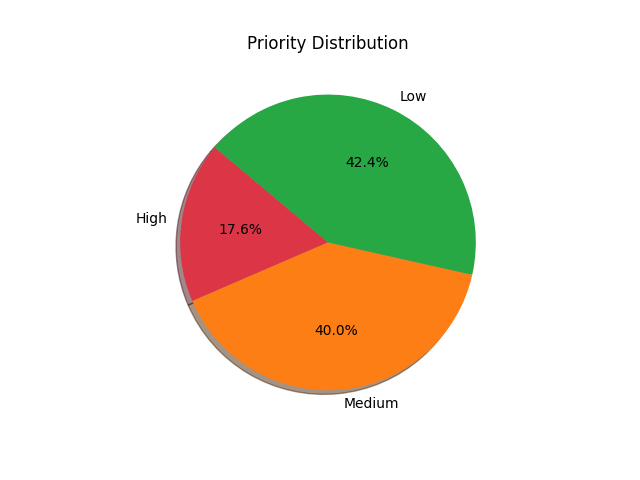
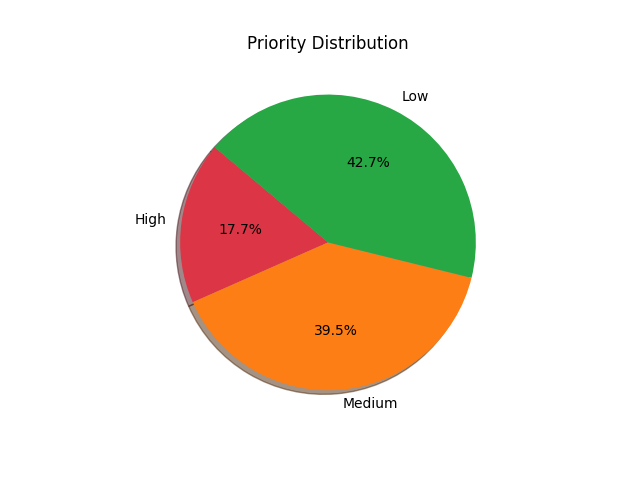
Fixed deep recon

diff --git a/detection.py b/detection.py
@@ -5,6 +5,9 @@ from urllib.parse import urlparse, parse_qs, urlencode, urlunparse
 
 # Shared session with realistic User-Agent
 SESSION = requests.Session()
+adapter = requests.adapters.HTTPAdapter(pool_connections=25, pool_maxsize=25)
+SESSION.mount('http://', adapter)
+SESSION.mount('https://', adapter)
 SESSION.headers.update({
     "User-Agent": "Mozilla/5.0 (Windows NT 10.0; Win64; x64) AppleWebKit/537.36 (KHTML, like Gecko) Chrome/120.0.0.0 Safari/537.36"
 })
@@ -51,7 +54,7 @@ def detect_advanced_sqli(url, forms=None, deep=False):
             tp = params.copy()
             
             # Error-Based
-            tp[param] = "'"
+            tp[param] = ["'"]
             try:
                 r = SESSION.get(urllib3.util.parse_url(urlunparse(parsed._replace(query=urlencode(tp, doseq=True)))).url, timeout=5)
                 if any(err in r.text.lower() for err in sql_errors):
@@ -62,8 +65,8 @@ def detect_advanced_sqli(url, forms=None, deep=False):
                 
             # Boolean-Based
             fp = params.copy()
-            tp[param] = "' AND 1=1--"
-            fp[param] = "' AND 1=2--"
+            tp[param] = ["' AND 1=1--"]
+            fp[param] = ["' AND 1=2--"]
             try:
                 r_true = SESSION.get(urlunparse(parsed._replace(query=urlencode(tp, doseq=True))), timeout=5)
                 r_false = SESSION.get(urlunparse(parsed._replace(query=urlencode(fp, doseq=True))), timeout=5)
@@ -75,7 +78,7 @@ def detect_advanced_sqli(url, forms=None, deep=False):
                 
             # Time-Based
             if deep:
-                tp[param] = "' AND SLEEP(3)--"
+                tp[param] = ["' AND SLEEP(3)--"]
                 try:
                     start = time.time()
                     SESSION.get(urlunparse(parsed._replace(query=urlencode(tp, doseq=True))), timeout=8)
@@ -173,7 +176,7 @@ def detect_advanced_xss(url, forms=None):
             for p_type, base_payload in payloads.items():
                 for payload_mut in get_evasion_payloads(base_payload):
                     tp = params.copy()
-                    tp[param] = payload_mut
+                    tp[param] = [payload_mut]
                     try:
                         r = SESSION.get(urlunparse(parsed._replace(query=urlencode(tp, doseq=True))), timeout=5)
                         if test_waf_blocking(r):
@@ -232,7 +235,7 @@ def detect_idor(url, forms=None):
     for param in params:
         if params[param][0].isdigit():
             tp = params.copy()
-            tp[param] = str(int(params[param][0]) + 1)
+            tp[param] = [str(int(params[param][0]) + 1)]
             try:
                 r = SESSION.get(urlunparse(parsed._replace(query=urlencode(tp, doseq=True))), timeout=5)
                 if r.status_code == 200 and base.status_code == 200 and abs(len(r.text) - len(base.text)) > 100 and r.text != base.text:
@@ -257,7 +260,7 @@ def detect_directory_traversal(url):
     params = parse_qs(parsed.query)
     for param in params:
         tp = params.copy()
-        tp[param] = "../../../../etc/passwd"
+        tp[param] = ["../../../../etc/passwd"]
         try:
             r = SESSION.get(urlunparse(parsed._replace(query=urlencode(tp, doseq=True))), timeout=5)
             if "root:" in r.text and "bin/bash" in r.text:
@@ -336,7 +339,7 @@ def detect_business_logic(url, forms=None):
     for param in params:
         if param.lower() in price_params:
             tp = params.copy()
-            tp[param] = "-1"
+            tp[param] = ["-1"]
             try:
                 r = SESSION.get(urlunparse(parsed._replace(query=urlencode(tp, doseq=True))), timeout=5)
                 if r.status_code == 200:
@@ -400,7 +403,7 @@ def detect_open_redirect(url):
     for param in params:
         if param.lower() in ["redirect", "url", "next", "return", "returnurl", "goto", "redir", "dest"]:
             tp = params.copy()
-            tp[param] = "https://evil.com"
+            tp[param] = ["https://evil.com"]
             try:
                 r = SESSION.get(urlunparse(parsed._replace(query=urlencode(tp, doseq=True))), allow_redirects=False, timeout=5)
                 if "Location" in r.headers and "evil.com" in r.headers["Location"]:

diff --git a/cvss.py b/cvss.py
@@ -52,6 +52,20 @@ def get_vulnerability_data(vuln_type, header=None):
             "remed": "Sanitize input, use strongly typed schemas, and avoid passing raw objects to NoSQL query APIs."
         },
 
+        # --- Deep Scan Modules ---
+        "Blind OS Command Injection": {
+            "impact": 0.95, "exploitability": 0.8,
+            "cwe": "CWE-78", "owasp": "A03:2021-Injection",
+            "desc": "The application is vulnerable to OS command injection via a time-delay execution payload.",
+            "remed": "Avoid using system calls. Use language-specific APIs and strict input sanitization."
+        },
+        "DOM-Based XSS (Static Warning)": {
+            "impact": 0.6, "exploitability": 0.5,
+            "cwe": "CWE-79", "owasp": "A03:2021-Injection",
+            "desc": "Static analysis of the page source revealed Javascript that writes user-controlled data directly to the DOM.",
+            "remed": "Use safe DOM manipulation methods like textContent instead of innerHTML."
+        },
+
         # --- XSS ---
         "Reflected XSS": {
             "impact": 0.6, "exploitability": 0.8,
